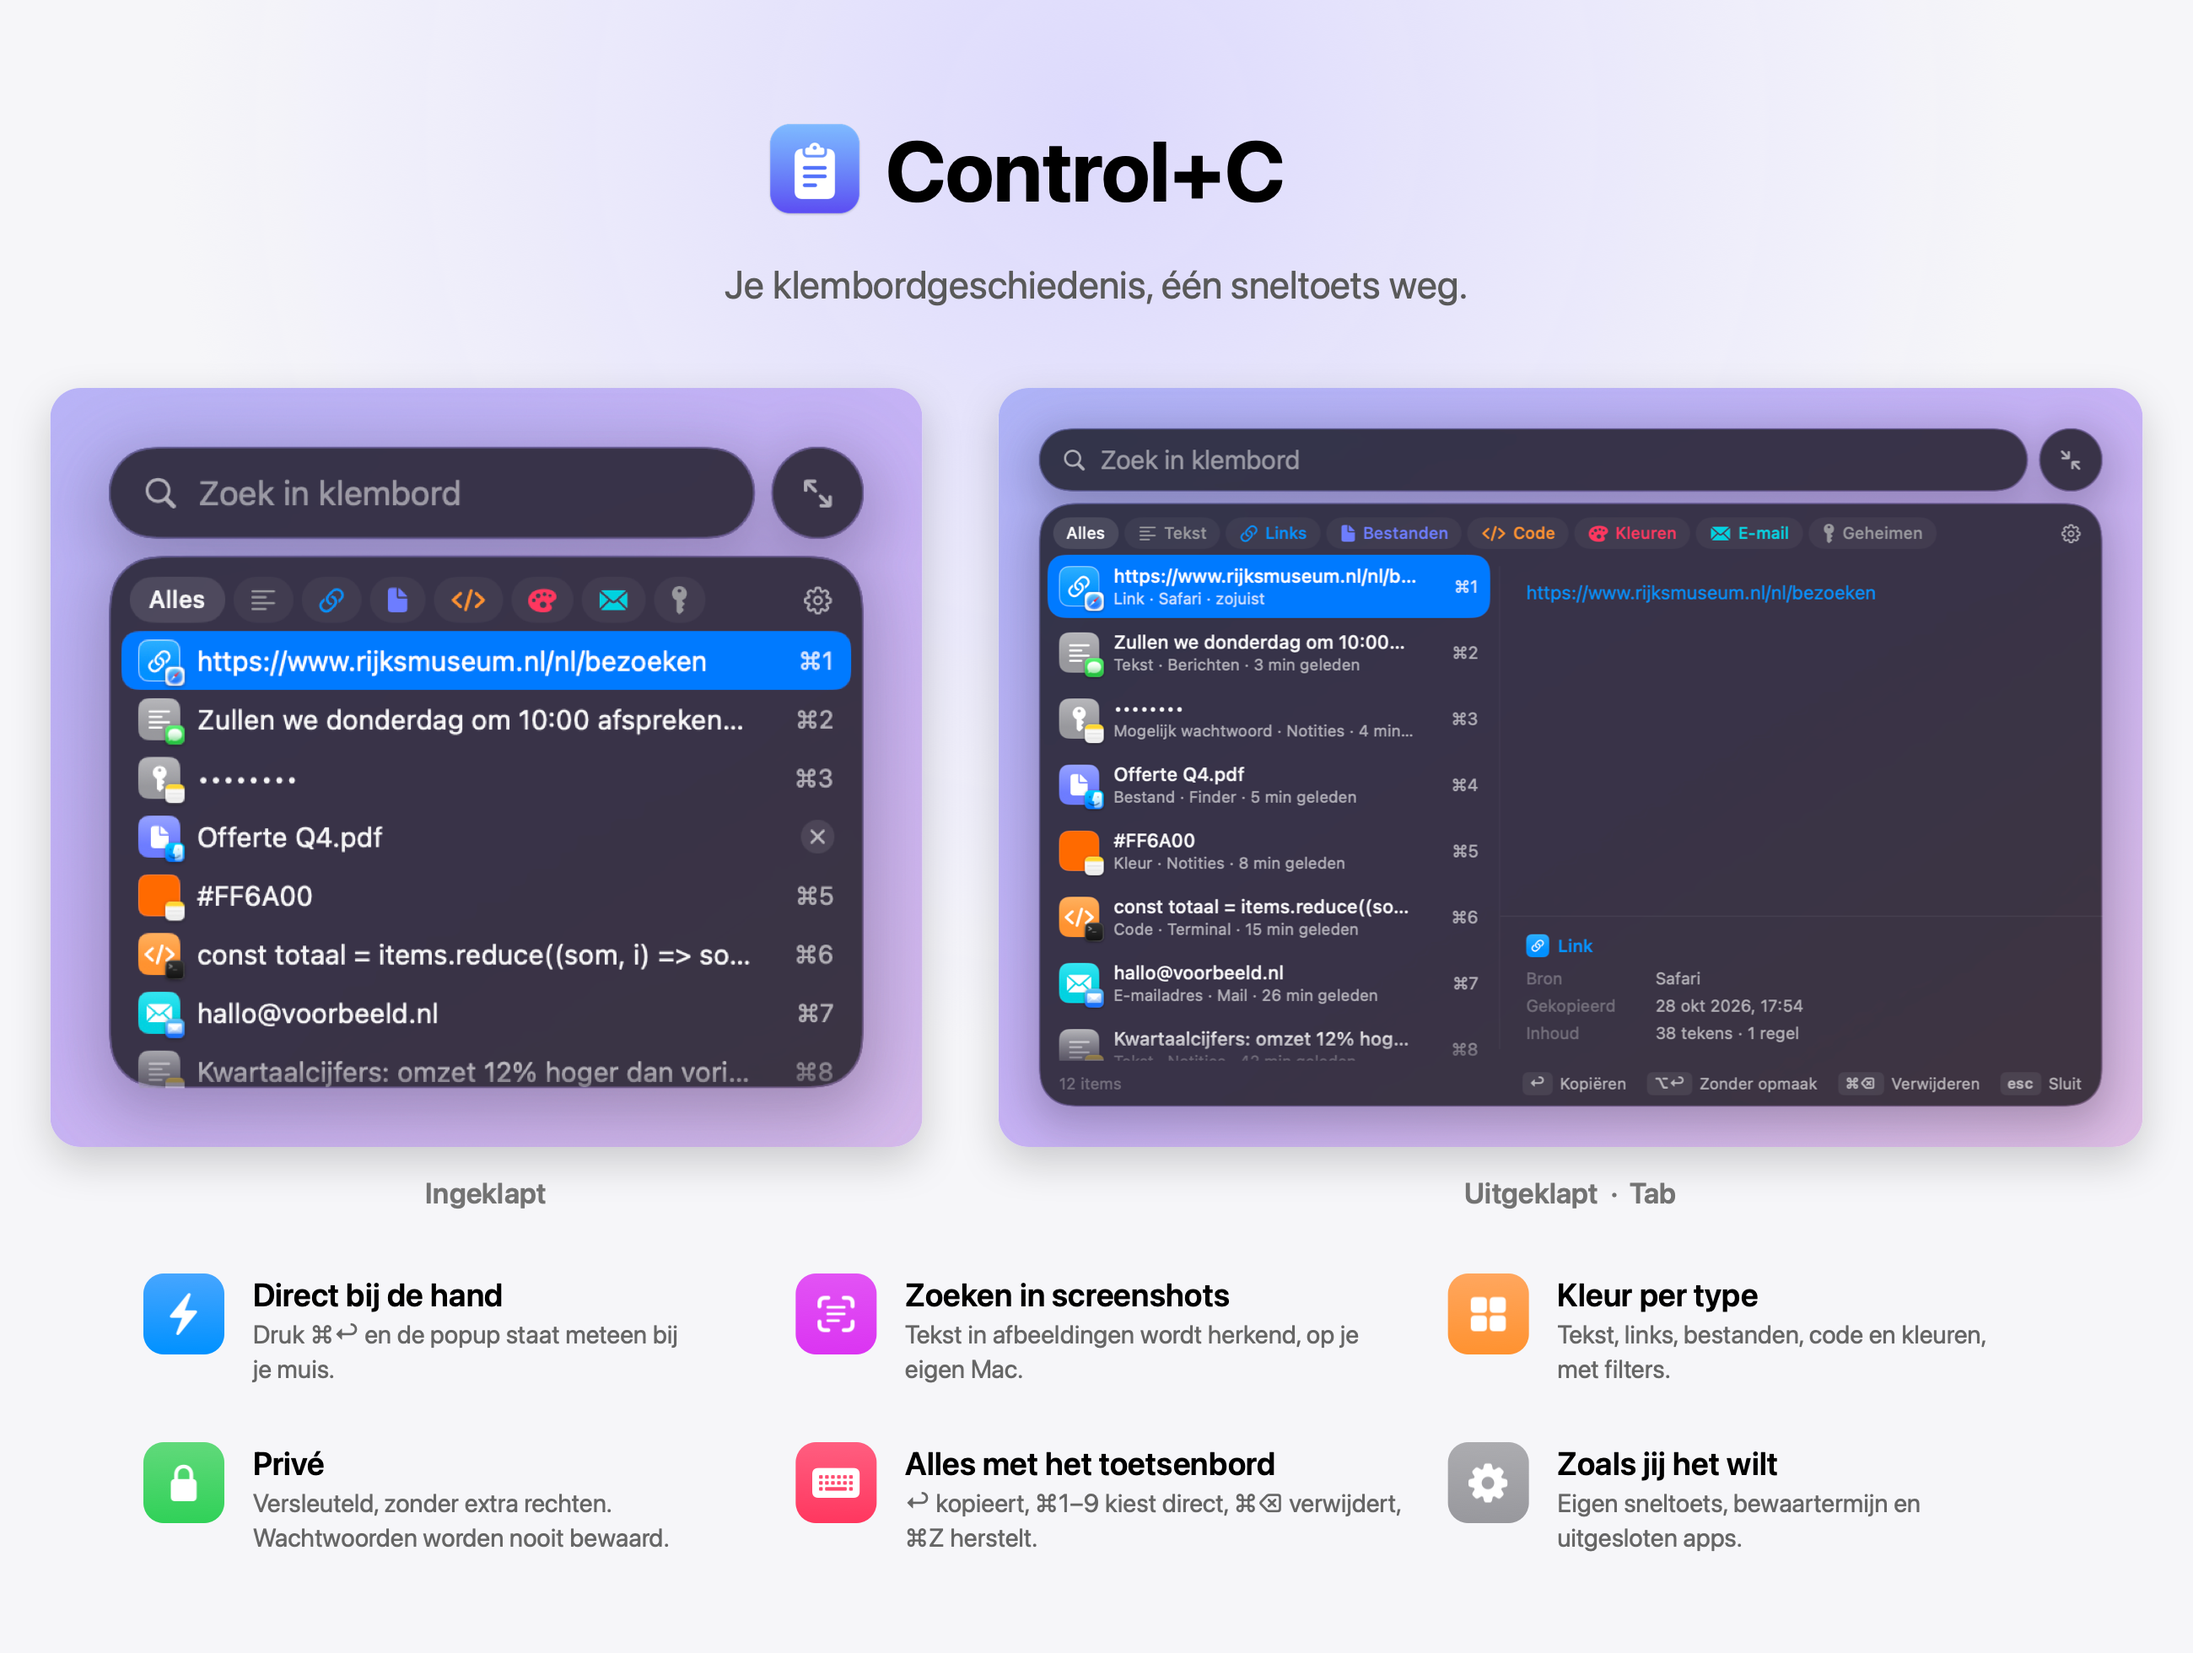
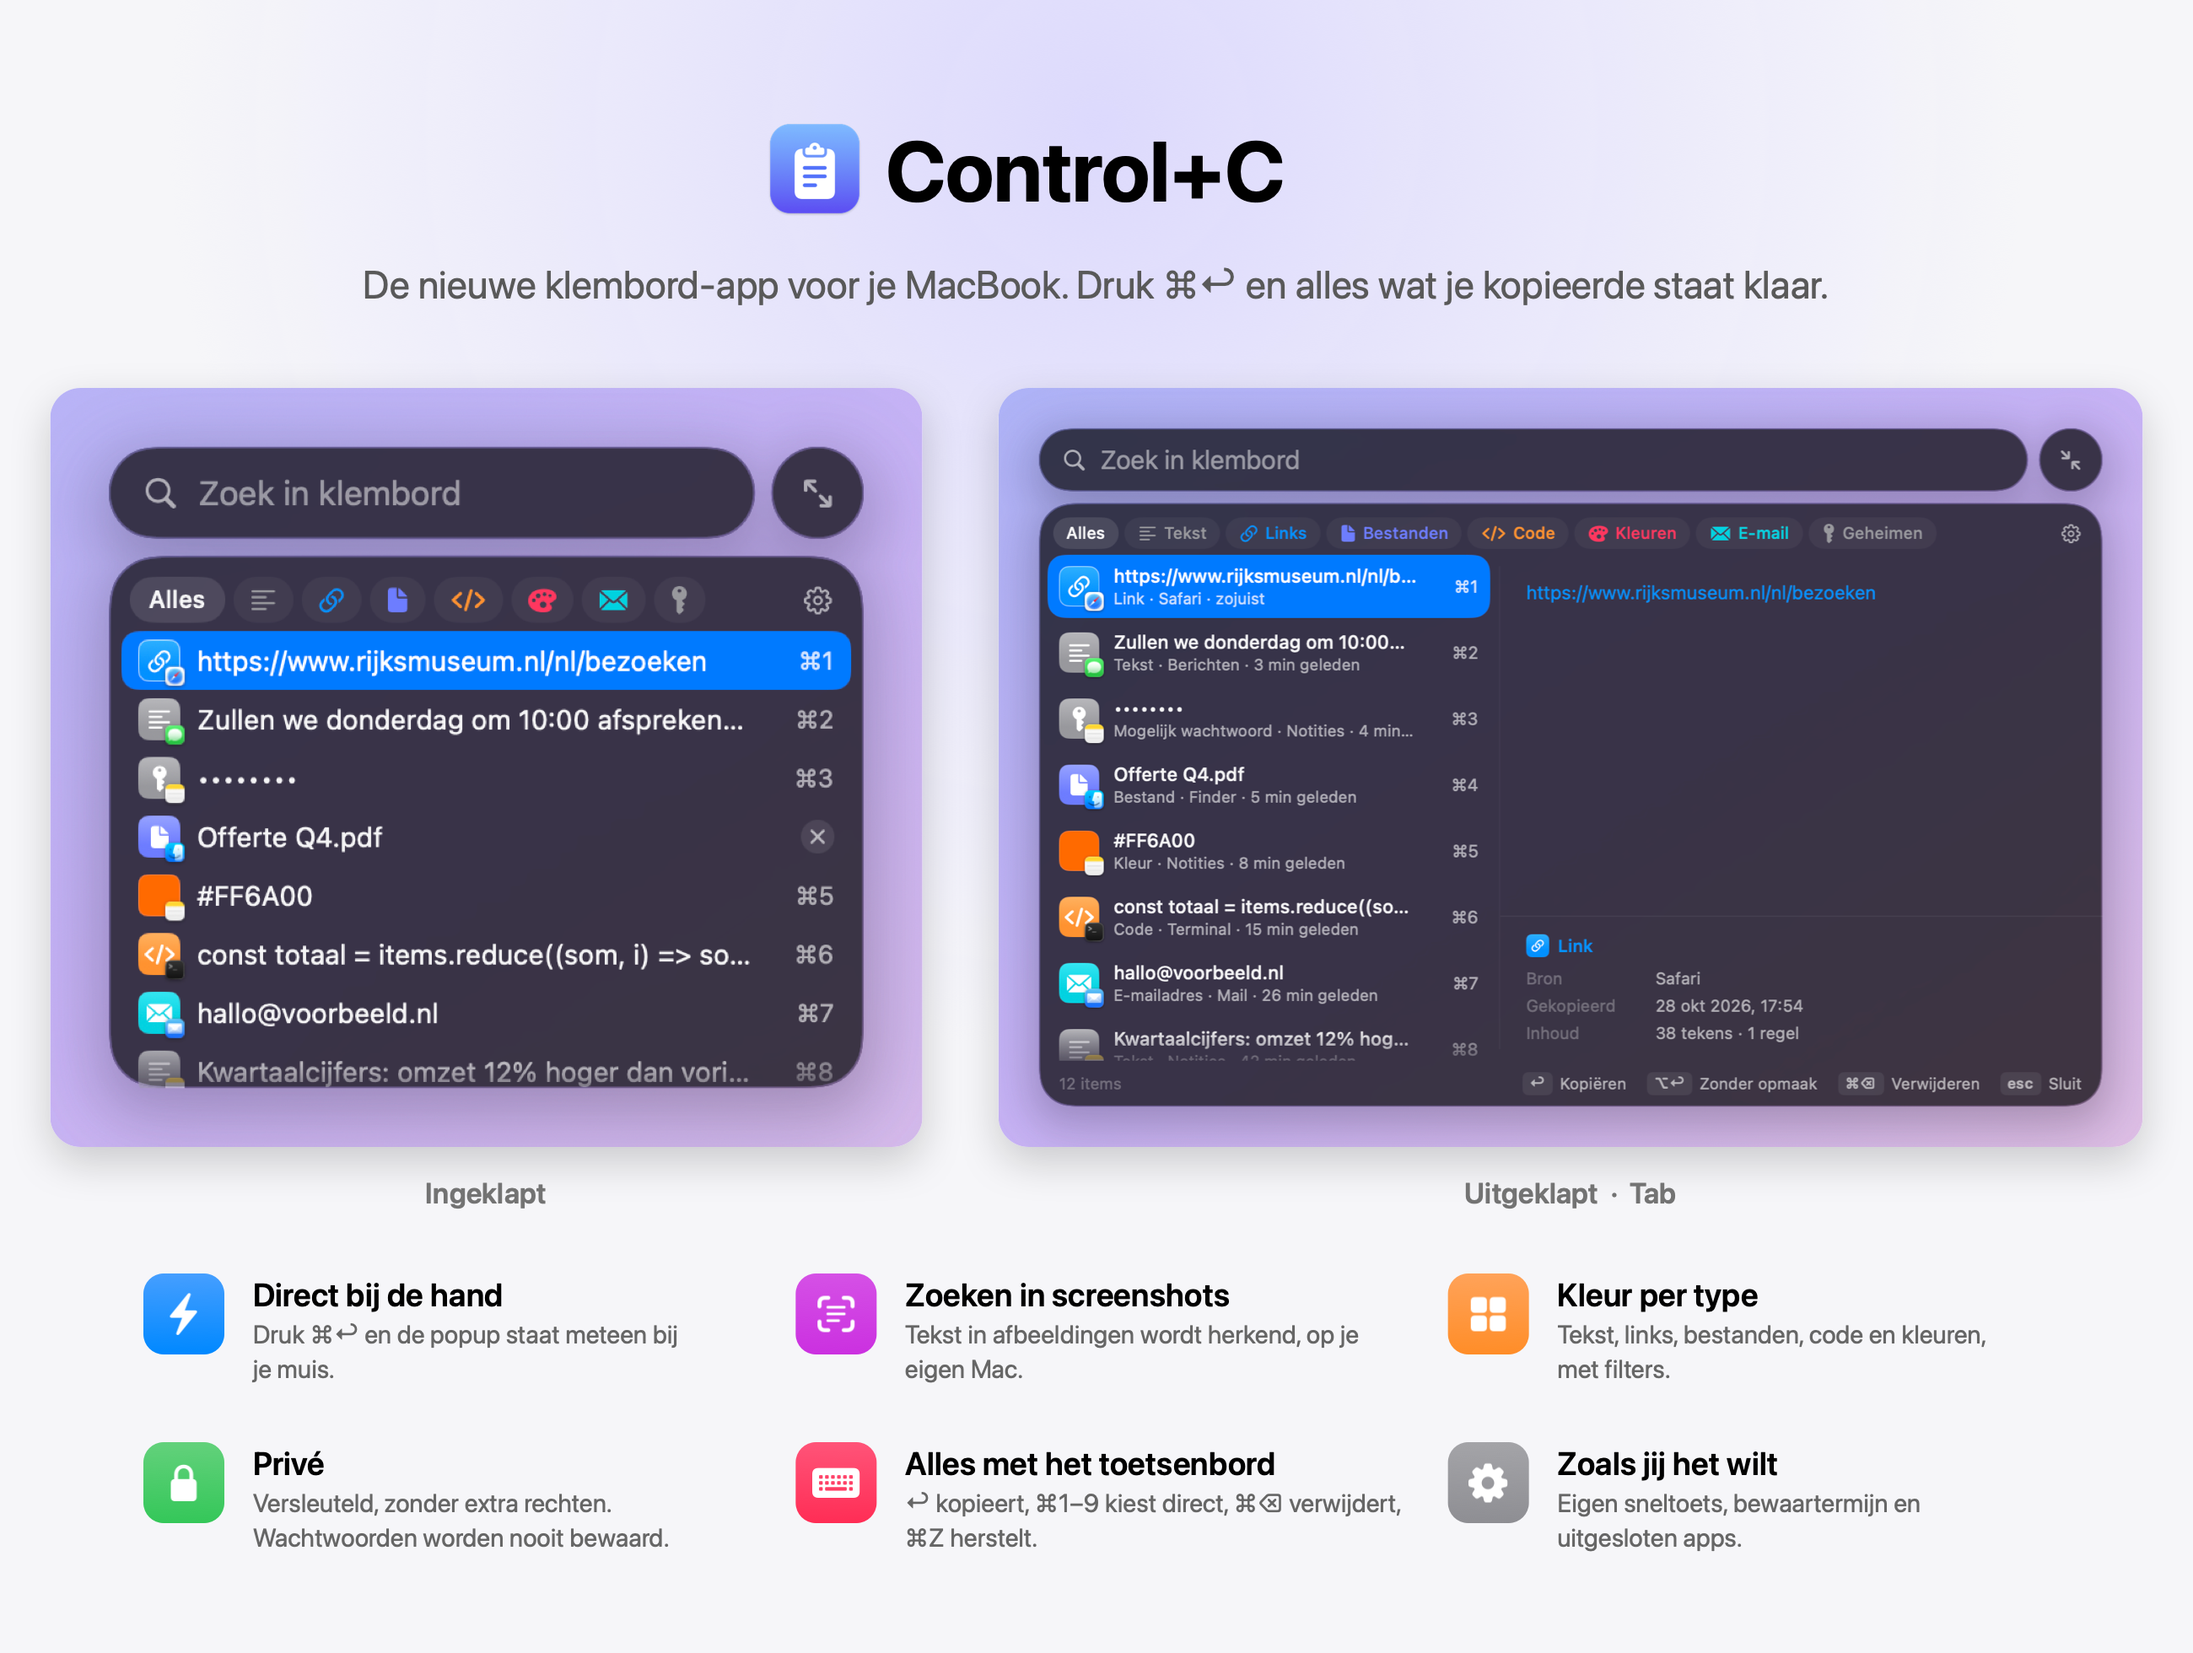
Preview image: new tagline

Changed region(s): [[0.1558, 0.1556, 0.8412, 0.1867]]

diff --git a/Scripts/make-preview.swift b/Scripts/make-preview.swift
@@ -40,7 +40,7 @@ if let icon = NSImage(contentsOf: root.appendingPathComponent("Resources/AppIcon
     icon.draw(in: rect(W / 2 - 400, pad - 6, 132, 132))
 }
 text("Control+C", size: 100, weight: .bold, color: .black, at: rect(W / 2 - 250, pad + 2, 800, 130))
-text("Je klembordgeschiedenis, één sneltoets weg.", size: 46, weight: .regular,
+text("De nieuwe klembord-app voor je MacBook. Druk ⌘↩ en alles wat je kopieerde staat klaar.", size: 46, weight: .regular,
      color: NSColor(white: 0.35, alpha: 1), at: rect(0, pad + 170, W, 70), align: .center)
 
 // Screenshots: equal height, side by side, each in a rounded frame with a soft shadow.
